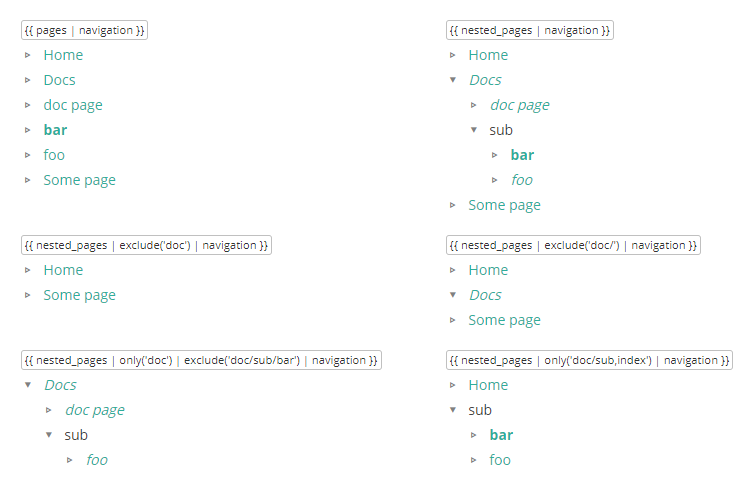
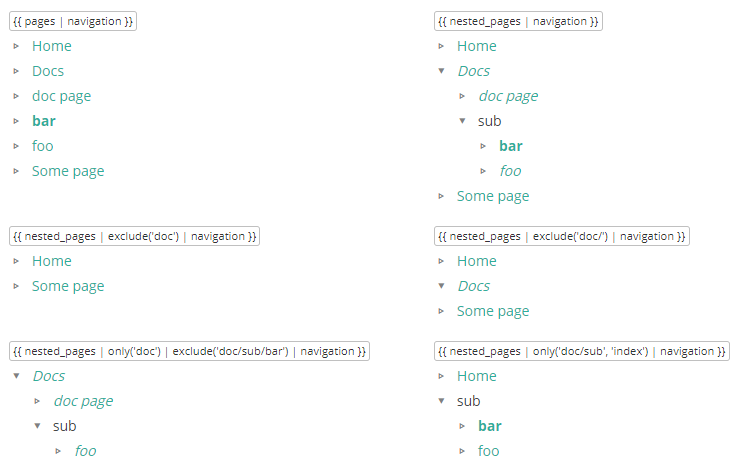
update doc and capture with variadic filters

diff --git a/README.md b/README.md
@@ -46,14 +46,14 @@ Use the leading slath to target index pages or not.
 
 ```twig
 pages | exclude('sub/dir/')     // exclude the page located under "sub/dir/", but not "sub/dir" (index)
-pages | exclude('sub/dir')      // exclude "sub/dir" (index) and pages located under "sub/dir/" 
+pages | exclude('sub/dir')      // exclude "sub/dir" (index) and pages located under "sub/dir/"
 ```
 
-You can specify multiple paths at once by using an array or a comma-separated string.
+You can specify multiple paths at once by using multiple arguments.
 
 ```twig
-exclude('sub/dir,page')
-exclude(['sub/dir', 'page'])
+exclude('sub/dir', 'page')
+only('sub/dir', 'page')
 ```
 
 ### Styling
